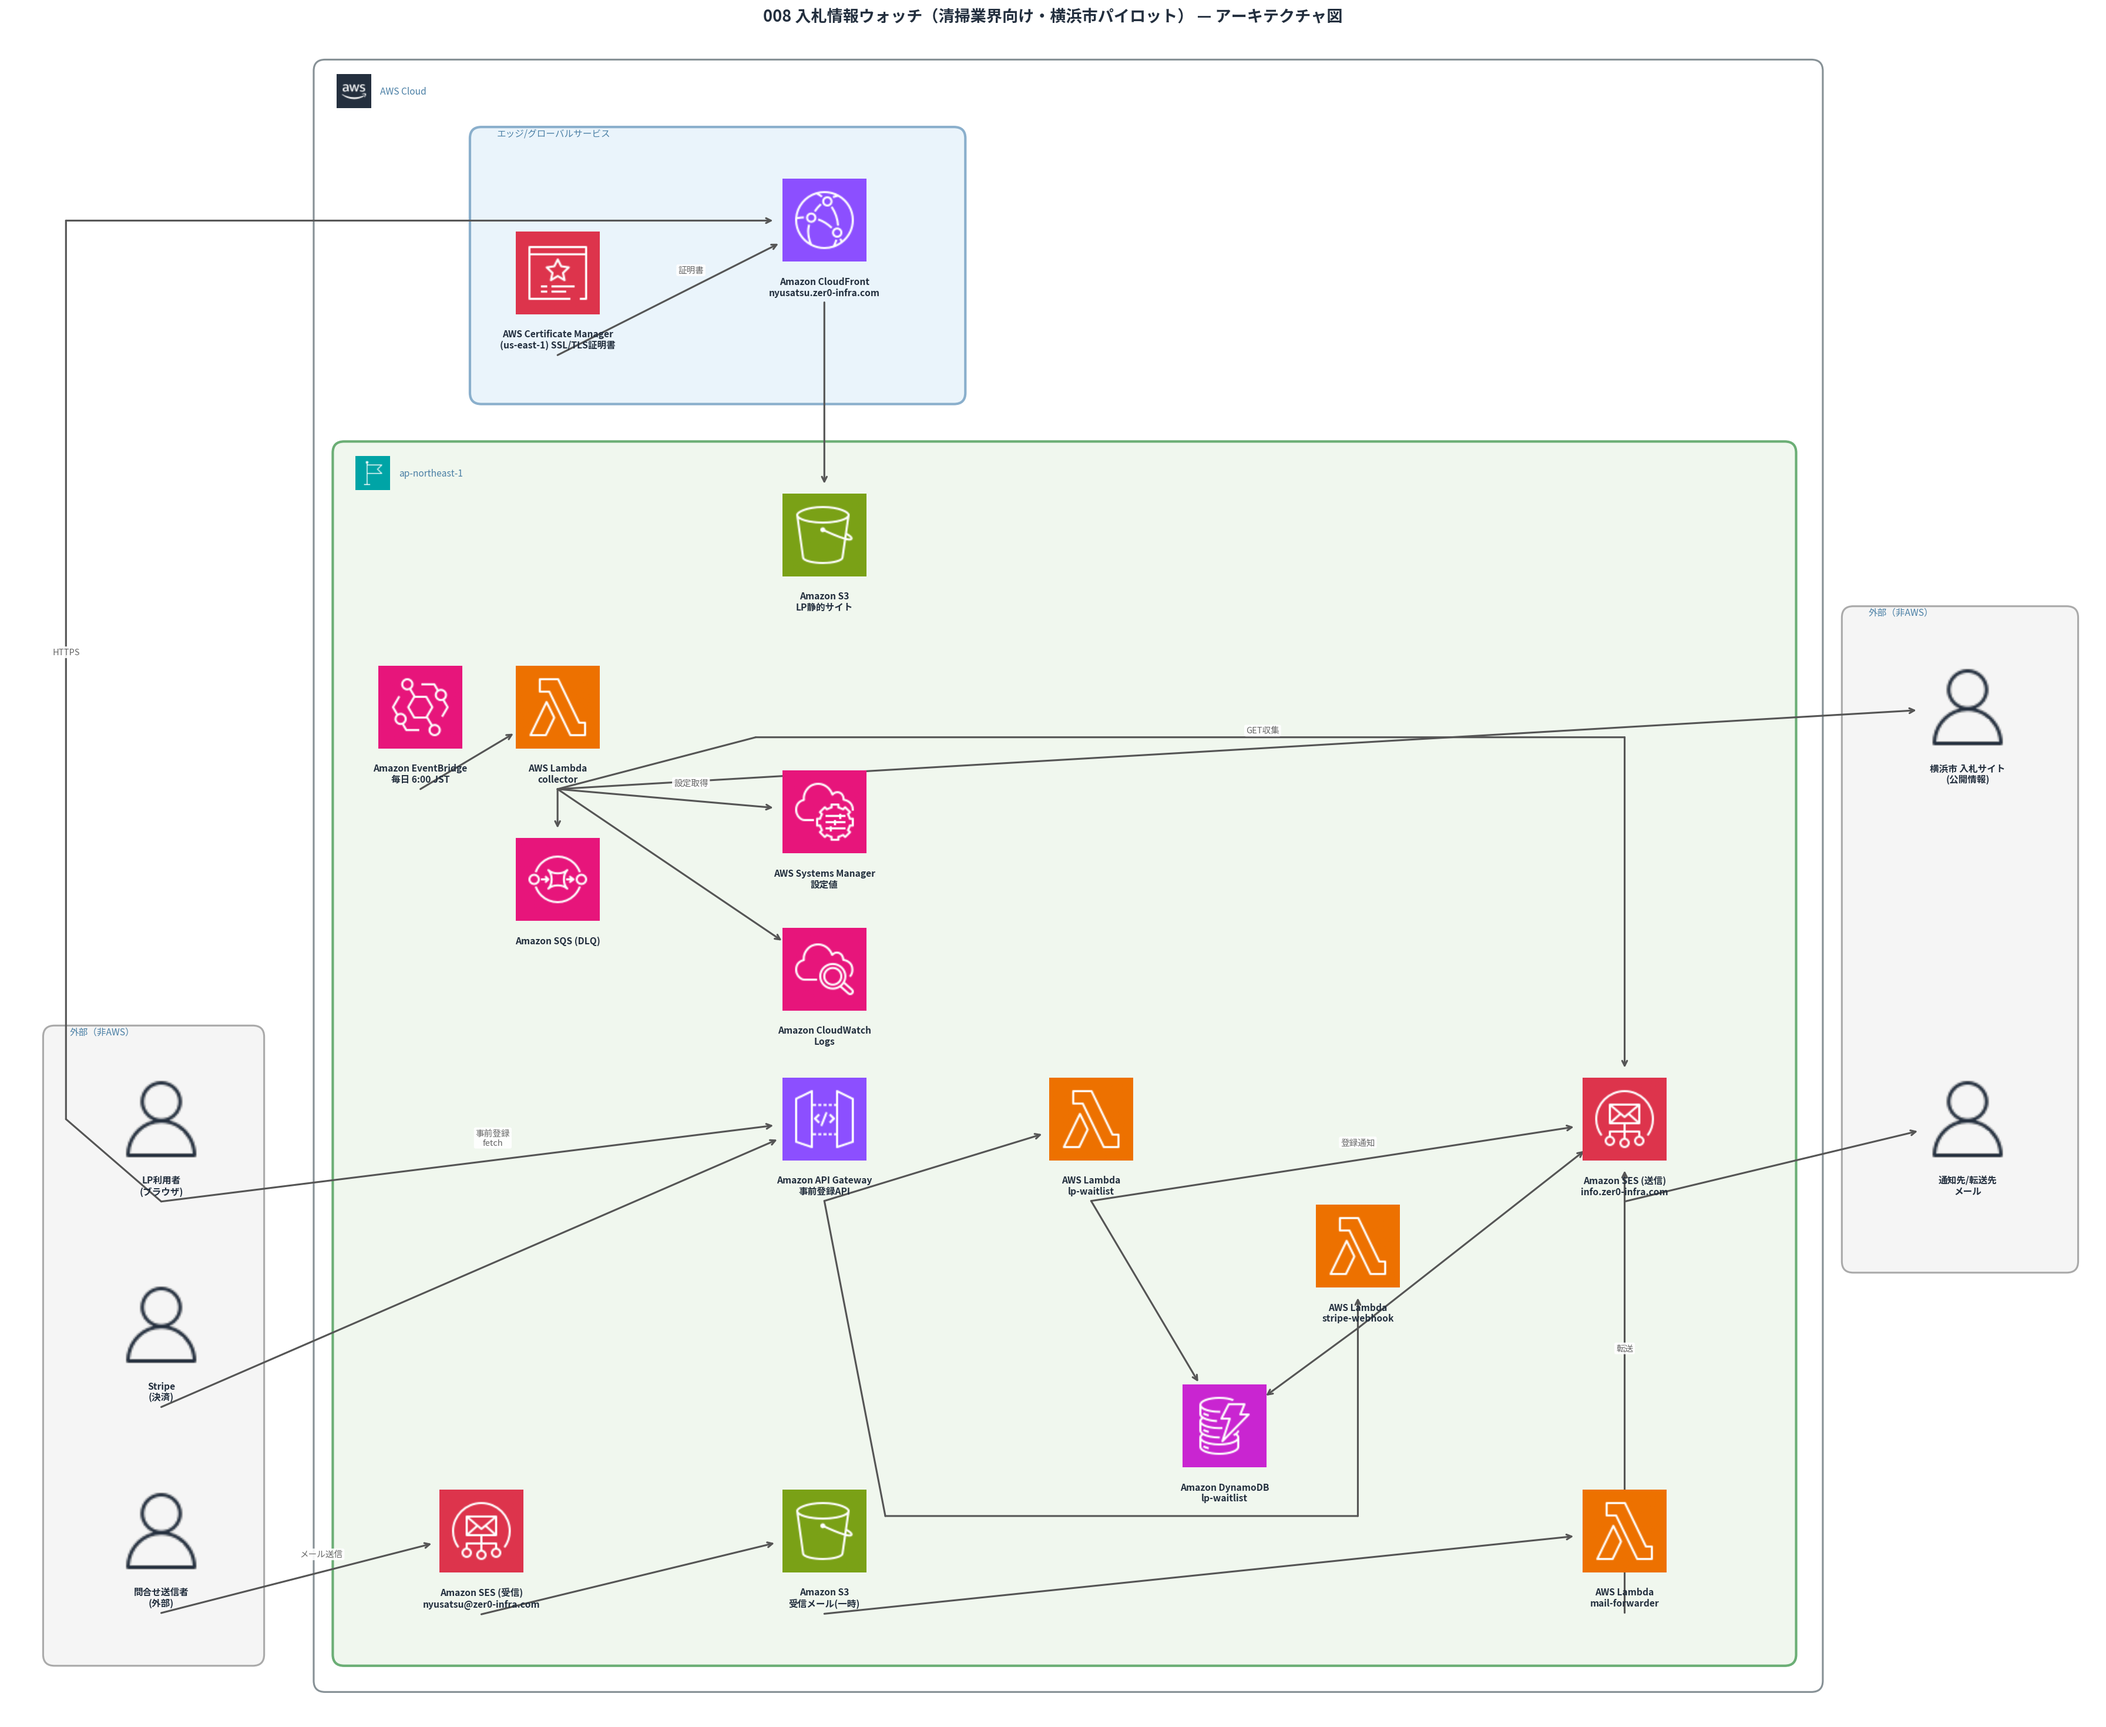
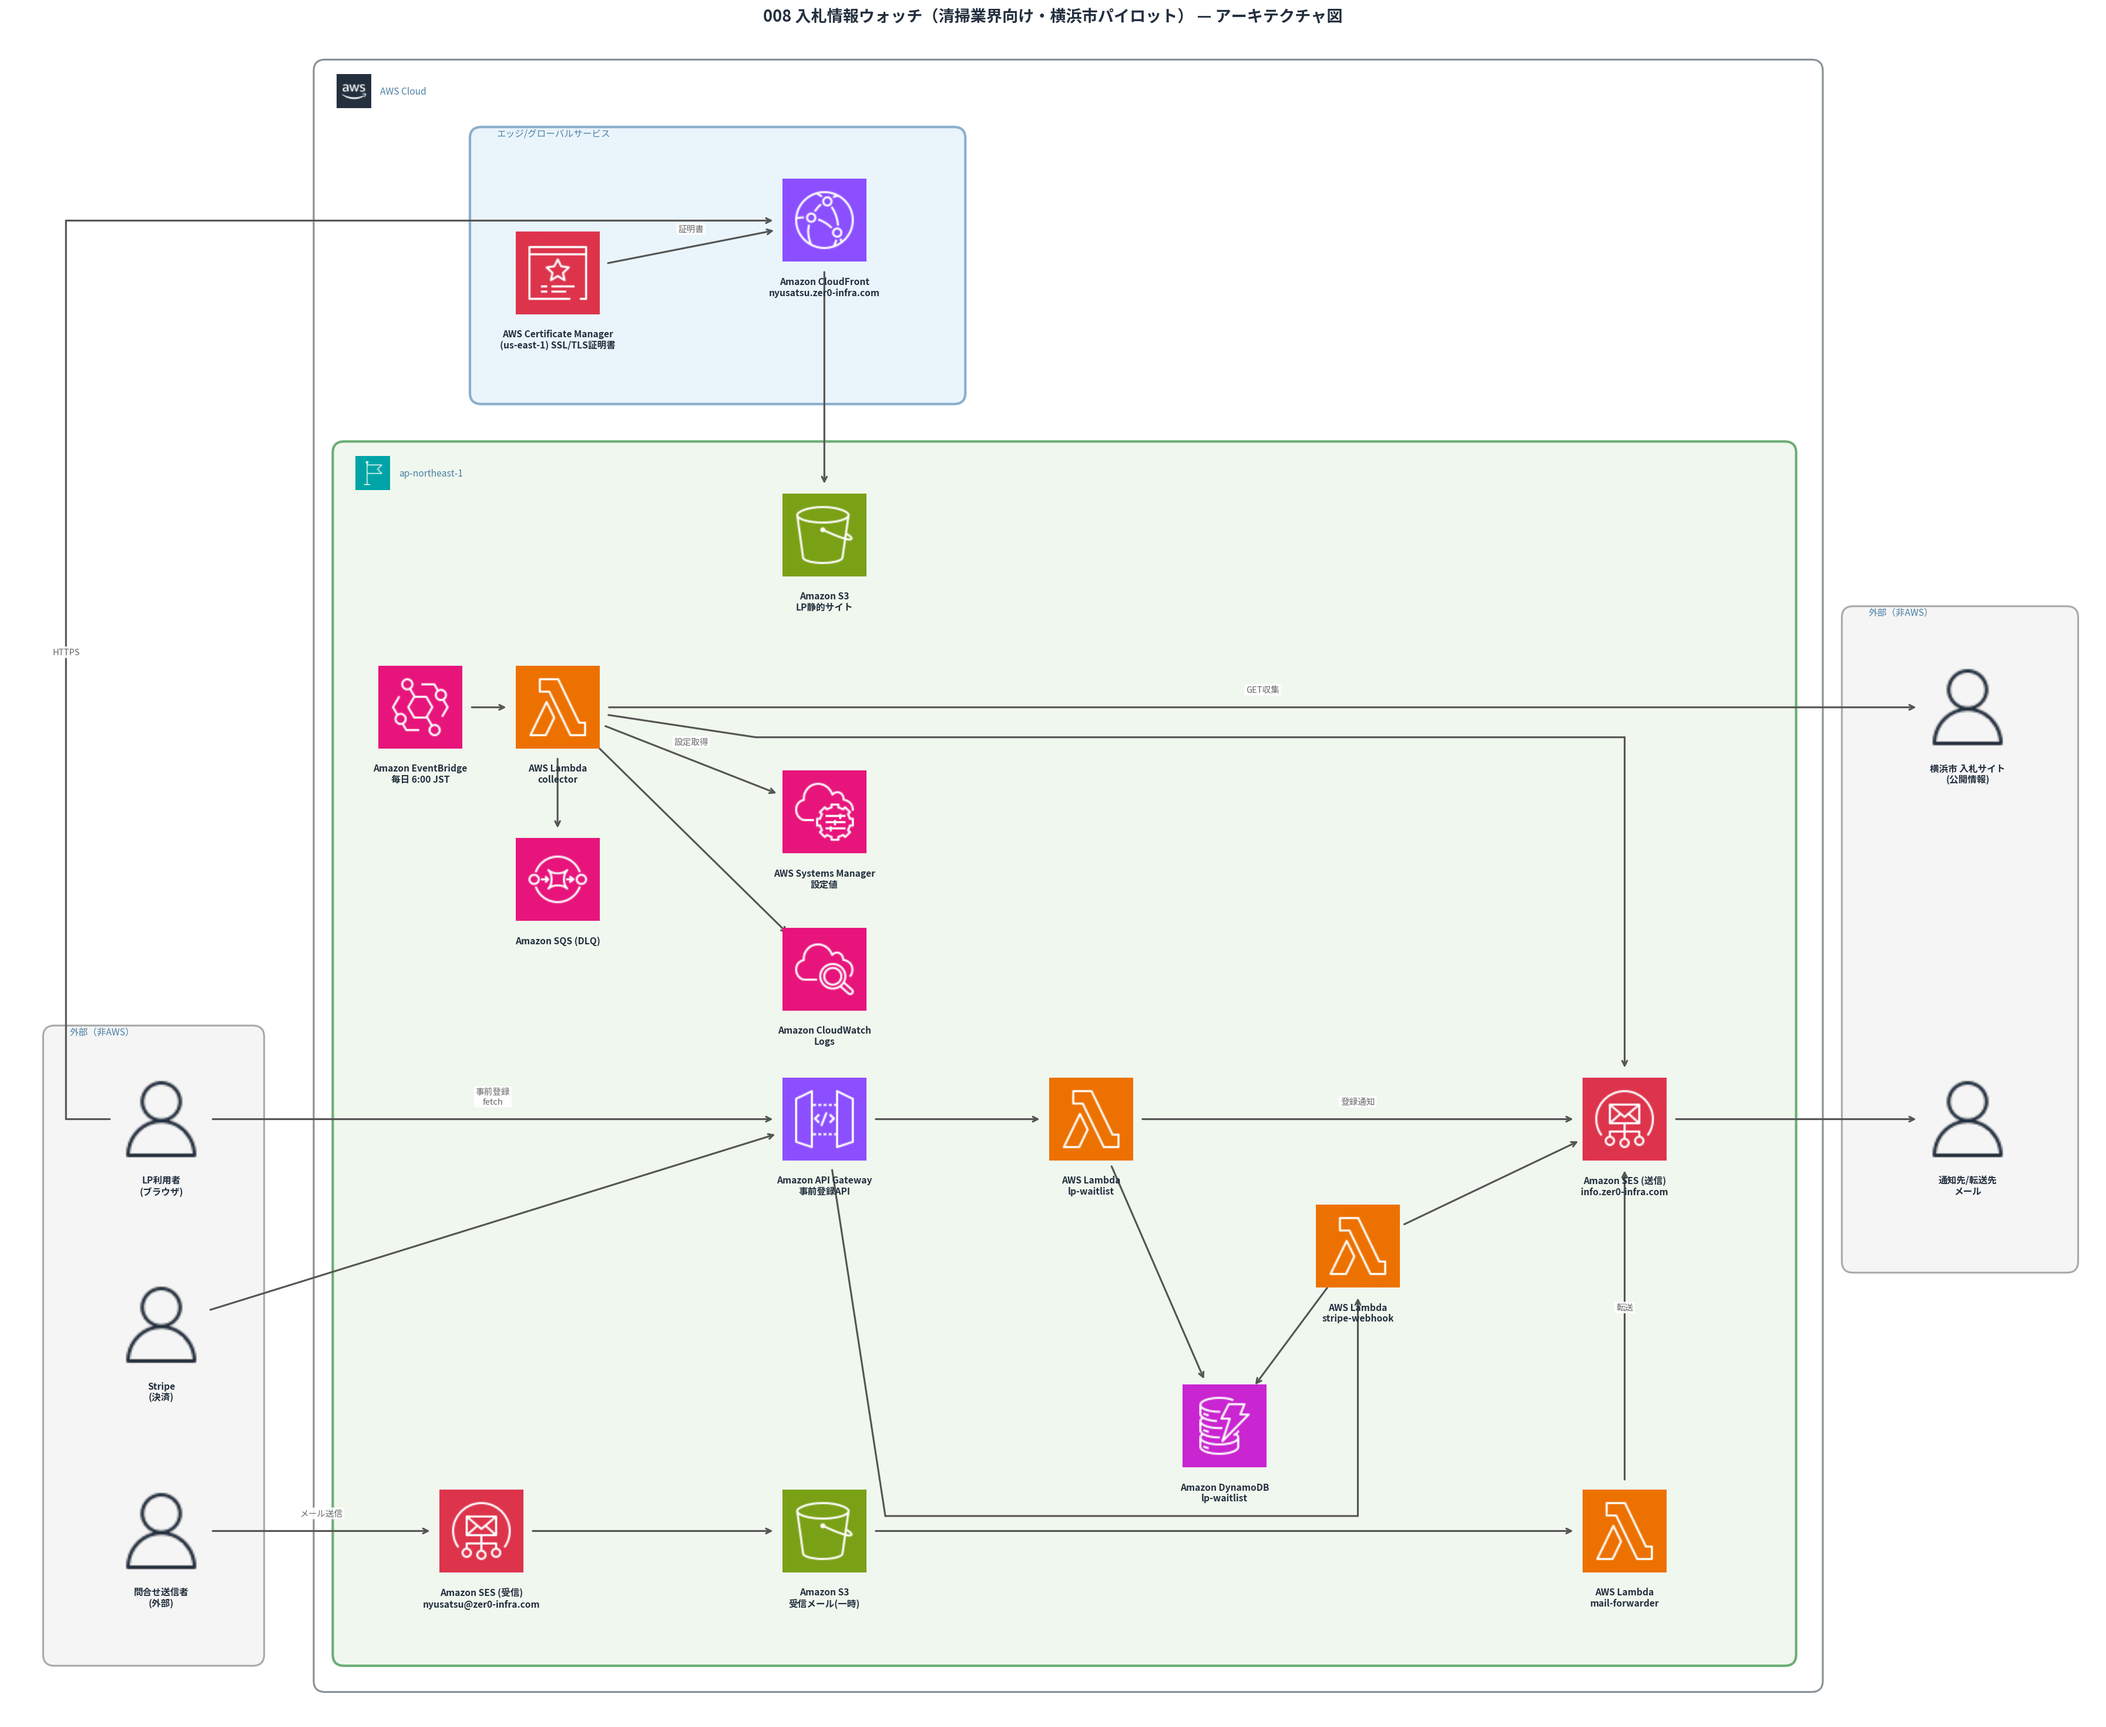
auto-sync: 2026-08-09 15:24

diff --git a/008_nyusatsu-notify-bot/scripts/generate_diagram.py b/008_nyusatsu-notify-bot/scripts/generate_diagram.py
@@ -279,44 +279,14 @@ def draw():
                 fontsize=7.5, color='#4A7FA5', style='italic', zorder=6)
 
     node_map = {n['id']: n for n in nodes}
-
-    # 矢印はノードのラベル文字の真下(下端)を始点にする(2026-08-09、ユーザー指示:
-    # 「文字の下から矢印を出せ」)。アイコン中心からのshrinkでは済まないため、
-    # 先にラベルを描画してmatplotlibのget_window_extent()で実際のラベル下端
-    # 座標を取得し、それを矢印の始点座標そのものとして使う。
-    ICON_SZ_ = HALF * 2
-    fig.canvas.draw()
-    renderer = fig.canvas.get_renderer()
-    inv = ax.transData.inverted()
-    label_bottom = {}
-    for n in nodes:
-        x, y = n['x'], n['y']
-        t = ax.text(x, y - HALF - 0.2, n['label'],
-                    ha='center', va='top', fontsize=7.5,
-                    color='#232F3E', fontweight='bold', zorder=4.5)
-        fig.canvas.draw()
-        bbox = t.get_window_extent(renderer=renderer)
-        (_, y0), (_, _) = inv.transform([(bbox.x0, bbox.y0), (bbox.x1, bbox.y1)])
-        label_bottom[n['id']] = y0
-
-    for n in nodes:
-        x, y = n['x'], n['y']
-        img = _load(n['icon'])
-        if img is not None:
-            ax.imshow(img, extent=[x - HALF, x + HALF, y - HALF, y + HALF],
-                      aspect='auto', zorder=4, interpolation='bilinear')
-
-    # 到着側のshrinkBは矢頭をノードの手前できれいに止めるため従来通り残す。
-    SHRINK_END = 42
+    SHRINK = 42
     for edge in edges:
         from_id, to_id = edge[0], edge[1]
         label = edge[2] if len(edge) > 2 else ''
         waypoints = edge[3] if len(edge) > 3 else []
         n1, n2 = node_map[from_id], node_map[to_id]
-        # 始点はラベル文字の下端(label_bottom)。ラベルは横方向にノード中心から
-        # 左右対称に広がるため、始点のx座標はノード中心のままでよい。
-        start_pt = (n1['x'], label_bottom[from_id])
-        pts = [start_pt] + waypoints + [(n2['x'], n2['y'])]
+        # 途中に経由点(waypoints)がある場合は直線区間を複数つなぎ、矢頭は最終区間のみに描く。
+        pts = [(n1['x'], n1['y'])] + waypoints + [(n2['x'], n2['y'])]
         n_seg = len(pts) - 1
         for i in range(n_seg):
             ax.annotate(
@@ -324,8 +294,8 @@ def draw():
                 arrowprops=dict(
                     arrowstyle='->' if i == n_seg - 1 else '-',
                     color='#555555', lw=1.5,
-                    shrinkA=0,
-                    shrinkB=SHRINK_END if i == n_seg - 1 else 0,
+                    shrinkA=SHRINK if i == 0 else 0,
+                    shrinkB=SHRINK if i == n_seg - 1 else 0,
                     connectionstyle='arc3,rad=0.0',
                 ),
                 zorder=3,
@@ -340,6 +310,16 @@ def draw():
                     bbox=dict(boxstyle='round,pad=0.2', facecolor='white',
                               edgecolor='none', alpha=0.9),
                     zorder=5)
+
+    for n in nodes:
+        x, y = n['x'], n['y']
+        img = _load(n['icon'])
+        if img is not None:
+            ax.imshow(img, extent=[x - HALF, x + HALF, y - HALF, y + HALF],
+                      aspect='auto', zorder=4, interpolation='bilinear')
+        ax.text(x, y - HALF - 0.2, n['label'],
+                ha='center', va='top', fontsize=7.5,
+                color='#232F3E', fontweight='bold', zorder=4.5)
 
     out = os.path.join(_BASE, 'images', '008_architecture.png')
     plt.tight_layout()
